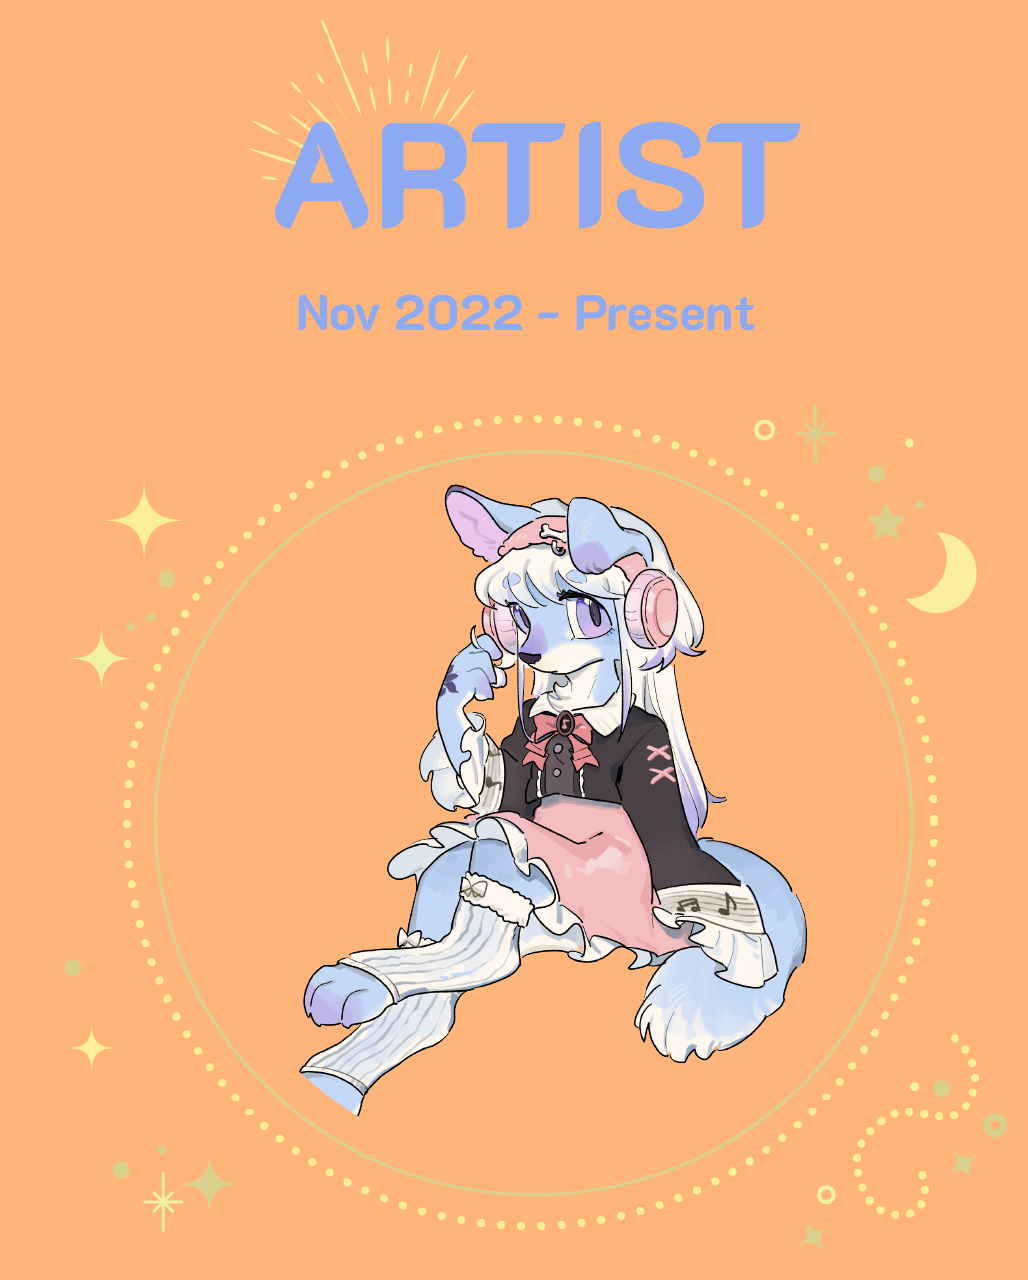
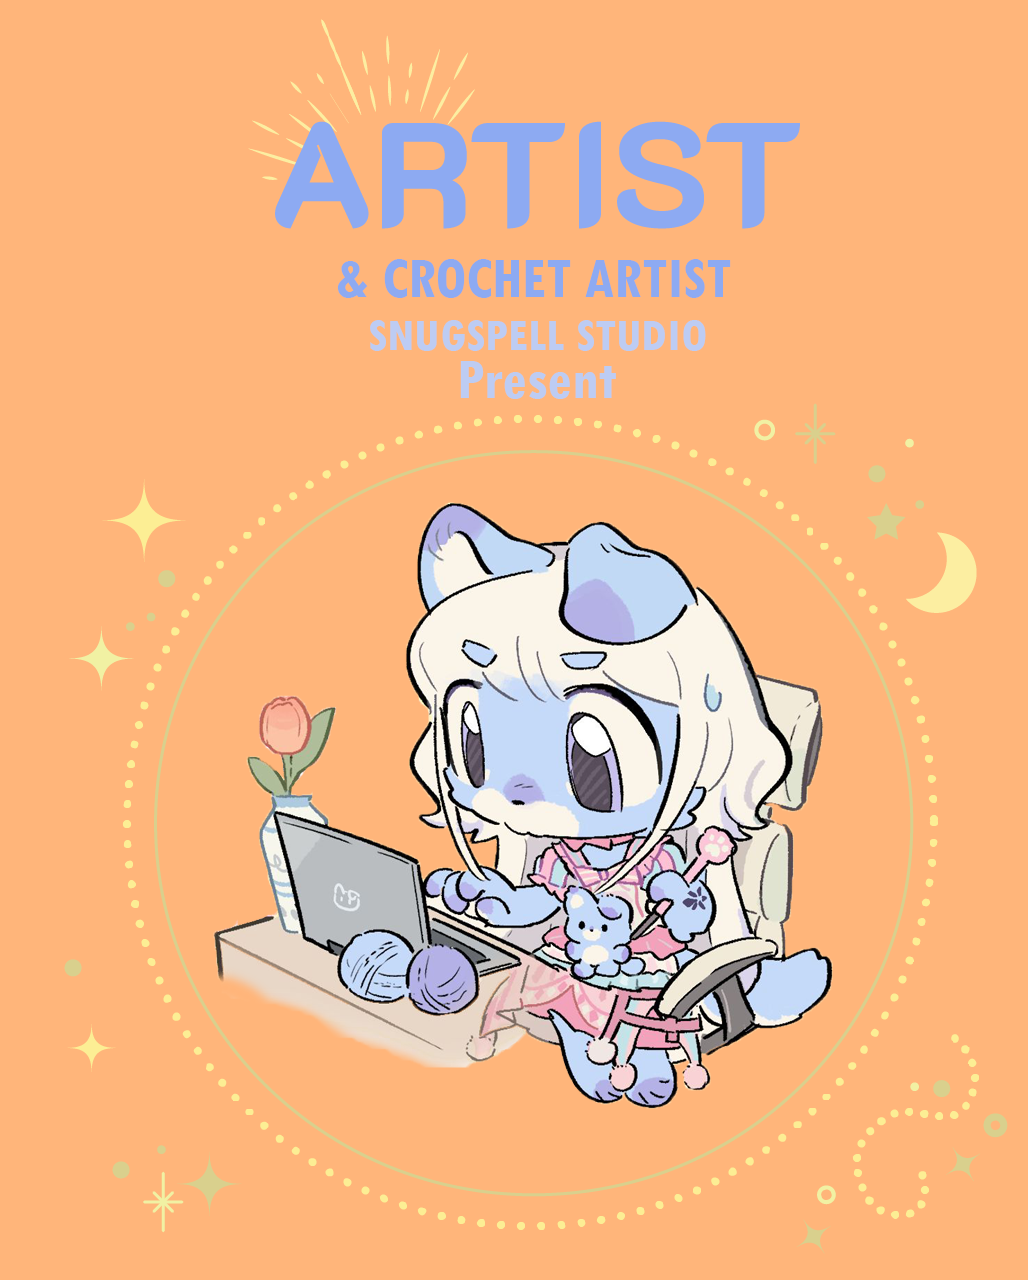
update

Changed region(s): [[0.1868, 0.375, 0.8093, 0.875], [0.2802, 0.1875, 0.7471, 0.3125]]

diff --git a/app/page.tsx b/app/page.tsx
@@ -69,7 +69,7 @@ const navItems: NavItem[] = [
     { name: 'Art Works', icon: Brush, id: 'art-works' },
     { name: 'Articles', icon: BookOpen, id: 'articles' },
     { name: 'Twitter', icon: Twitter, link: 'https://twitter.com/Iris_dreaming_' },
-    { name: 'Instagram', icon: Instagram, link: 'https://www.instagram.com/daydreams_of_iris' },
+    { name: 'Instagram', icon: Instagram, link: 'https://www.instagram.com/snugspell_studio/' },
     { name: 'LinkedIn', icon: Linkedin, link: 'https://www.linkedin.com/in/jingyi-zhang-69829324a/' },
     { name: 'Music', icon: Music, actionType: 'toggle-music' },
 ];
@@ -105,10 +105,23 @@ const toolIcons: Record<string, React.ReactNode> = {
 
 const workExperienceData: WorkExperience[] = [
     {
+        title: 'Founder (Full-time)',
+        company: 'Snugspell Studio',
+        location: 'Stockholm, Sweden',
+        duration: 'Sep 2025 - Present',
+        description: [
+            'Leading the development of original game projects and interactive experiences.',
+            'Providing game design consultancy for international clients.',
+            'Designing and creating handcrafted products inspired by games, anime, nature, and storytelling.',
+            'Developing Snugspell Studio’s brand identity, marketing strategy, and online presence.',
+            'Managing business operations, partnerships, events, and product sales.',
+        ],
+    },
+    {
         title: 'Game Designer (Full-time)',
         company: 'Gamescan Stockholm Studios/Metaking Studio',
         location: 'Stockholm, Sweden',
-        duration: 'Nov 2023 - Present',
+        duration: 'Nov 2023 - Jun 2026',
         description: [
             'Delivered core gameplay, progression, mechanics, and economy systems for live game BLOCKLORDS (30K+ players), collaborating with the Game Director and cross-functional teams using Miro, Google Suite, Figma, and Unity to drive features from concept to implementation.',
             'Planned and tracked production via Jira and Trello, facilitating sprint planning and managing cross-team dependencies.',
@@ -254,6 +267,9 @@ const artWorksData = [
     { id: 4, aspectRatio: 'aspect-w-16 aspect-h-9', imageSrc: '/images/art_works/art_4.png', title: 'My Art 4', description: 'Childrens picture book illustration'},
     { id: 5, aspectRatio: 'aspect-w-9 aspect-h-16', imageSrc: '/images/art_works/art_5.png', title: 'My Art 5', description: '3D props deisgn and character design'},
     { id: 6, aspectRatio: 'aspect-w-5 aspect-h-4', imageSrc: '/images/art_works/art_6.png', title: 'My Art 6', description: 'Character Design'},
+    { id: 7, aspectRatio: 'aspect-w-16 aspect-h-9', imageSrc: '/images/art_works/art_4.png', title: 'My Art 7', description: 'Tiny Animals & Characters Crochet Works'},
+    { id: 8, aspectRatio: 'aspect-w-9 aspect-h-16', imageSrc: '/images/art_works/art_5.png', title: 'My Art 8', description: 'Reverse Single Crochet Works'},
+    { id: 9, aspectRatio: 'aspect-w-5 aspect-h-4', imageSrc: '/images/art_works/art_6.png', title: 'My Art 9', description: 'Tiny Fursona Crochet'},
 ];
 
 const articlesData = [
